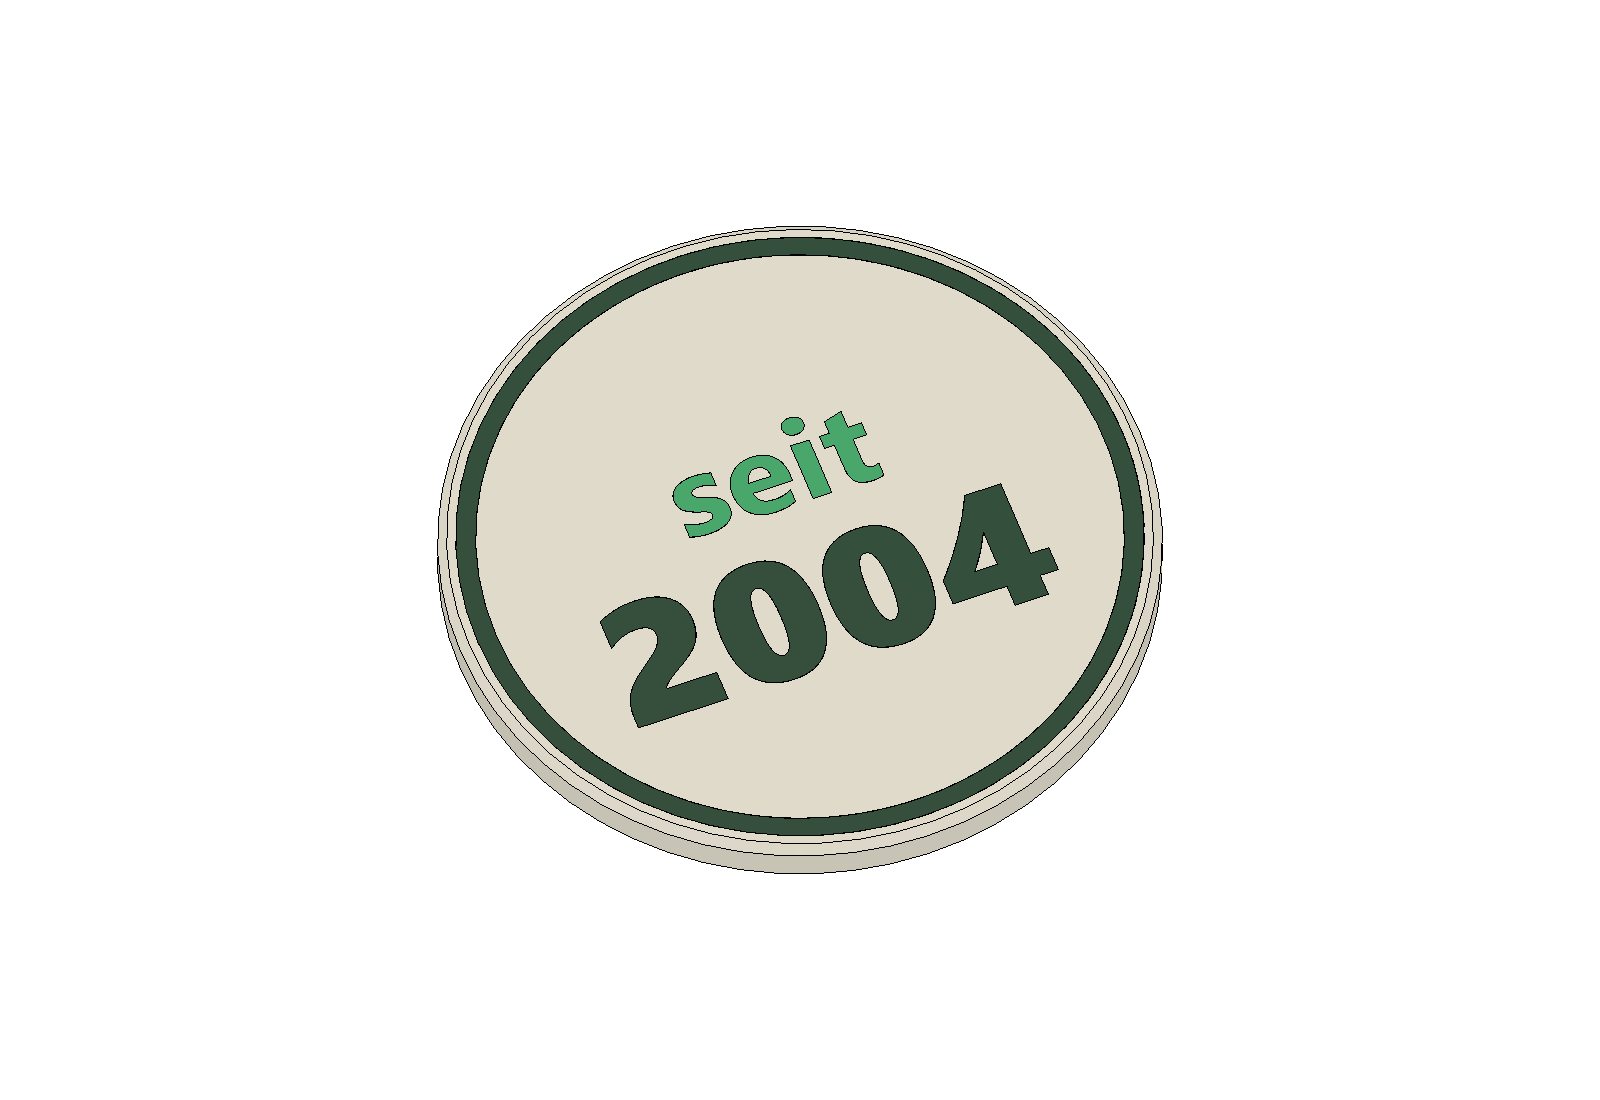
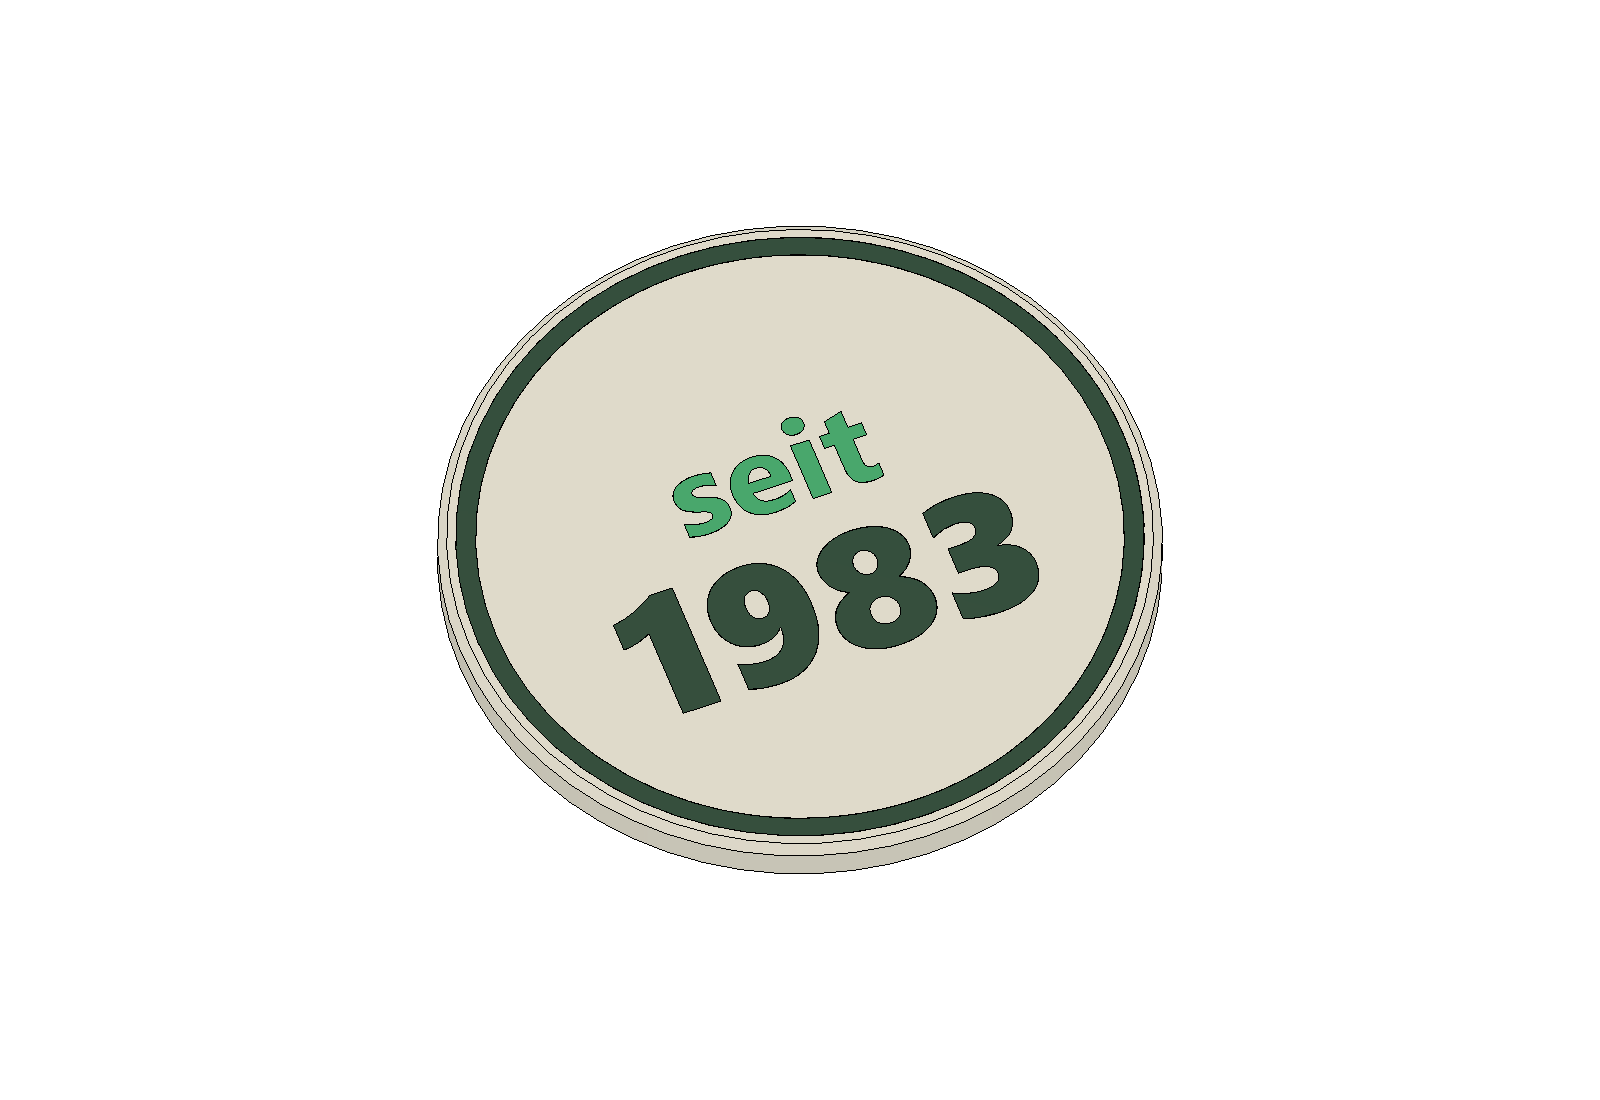
Jahreszahl auf Token und Chips: seit 1983 statt seit 2004
Motiv seit2004 heisst jetzt seit1983 (Gruendungsjahr der Bechtle AG),
Vorschaubilder, Galerie und Pages-Bilder neu erzeugt.
tools/make_3mf.py als gemeinsame 3MF-Basis wiederhergestellt.

Changed region(s): [[0.375, 0.4327, 0.6562, 0.68]]

diff --git a/galerie/merch_daten.js b/galerie/merch_daten.js
@@ -2,13 +2,13 @@
 const MERCH = [
   {
     id: 'token', kurz: 'Token', kicker: '1 · Überarbeitet', name: 'Token, wahlweise mit Schlüsselring',
-    text: 'Eine Münze für beides: Hauptversion ohne Loch, dazu jede Variante fertig mit 2-mm-Loch für den Schlüsselring, ohne Umrandung. Vorn ein 20 mm großes Emblem und der Schriftzug im dunklen Randring, hinten eines von fünf Motiven. Die neutrale Fassung trägt vorn „seit 2004“, hinten ein Motiv ohne Logo oder nur den Ring.',
+    text: 'Eine Münze für beides: Hauptversion ohne Loch, dazu jede Variante fertig mit 2-mm-Loch für den Schlüsselring, ohne Umrandung. Vorn ein 20 mm großes Emblem und der Schriftzug im dunklen Randring, hinten eines von fünf Motiven. Die neutrale Fassung trägt vorn „seit 1983“, hinten ein Motiv ohne Logo oder nur den Ring.',
     masse: 'Ø 40 × 3 mm, Loch Ø 2 mm für einen Ring mit 1 mm Draht, 2,8 mm Steg zum Rand',
     farben: ['weiss', 'dunkel', 'mittel'],
     druck: 'flach, ohne Stützen; Rückseite in den ersten drei Schichten, Vorderseite in den letzten drei',
     dateien: 'token_logo_<motiv>[_loch].3mf, token_neutral_<motiv>[_loch].3mf (16 Dateien)',
-    hinweis: 'Die Bogentexte der Rückseiten sind 2,7 bis 3,0 mm hoch. Mit einer 0,4-mm-Düse ist das die Grenze; „seit 2004“ und „Zusammen zukunftsstark“ sind unkritisch.',
-    bilder: [['token_logo_seit2004_loch.png', 'Vorderseite mit Loch'], ['token_logo_seit2004.png', 'Vorderseite'], ['token_logo_seit2004_rueckseite.png', 'seit 2004'],
+    hinweis: 'Die Bogentexte der Rückseiten sind 2,7 bis 3,0 mm hoch. Mit einer 0,4-mm-Düse ist das die Grenze; „seit 1983“ und „Zusammen zukunftsstark“ sind unkritisch.',
+    bilder: [['token_logo_seit1983_loch.png', 'Vorderseite mit Loch'], ['token_logo_seit1983.png', 'Vorderseite'], ['token_logo_seit1983_rueckseite.png', 'seit 1983'],
       ['token_logo_always_loch_rueckseite.png', 'Always prepared'], ['token_logo_zusammen_loch_rueckseite.png', 'Zusammen zukunftsstark'],
       ['token_logo_shape_loch_rueckseite.png', 'Shape the future'], ['token_logo_unknown_loch_rueckseite.png', 'Get to know'], ['token_neutral_zusammen.png', 'Neutral, vorn'], ['token_neutral_leer_rueckseite.png', 'Neutral, nur Ring']],
   },
@@ -18,9 +18,9 @@ const MERCH = [
     masse: 'Ø 23,25 × 2,4 mm (1-Euro-Münze: 2,33 mm)',
     farben: ['weiss', 'dunkel', 'mittel', 'neon'],
     druck: 'flach, ohne Stützen; beide Seiten je 0,6 mm tief eingelegt',
-    dateien: 'chipsatz_logo_seit2004.3mf (vier Farbwelten auf einer Platte), chip_logo_<motiv>.3mf, chip_neutral_<motiv>.3mf (8 Dateien)',
-    hinweis: 'Auf dem Chip sind die Bogentexte nur 1,7 bis 1,9 mm hoch, „Zusammen zukunftsstark“ ist ähnlich fein. Das braucht eine 0,2-mm-Düse; mit 0,4 mm sind „seit 2004“ und die Rückseite nur mit Ring sicher.',
-    bilder: [['chip_logo_seit2004.png', 'Vorderseite'], ['chip_logo_seit2004_rueckseite.png', 'seit 2004'], ['chip_logo_always_rueckseite.png', 'Always prepared'],
+    dateien: 'chipsatz_logo_seit1983.3mf (vier Farbwelten auf einer Platte), chip_logo_<motiv>.3mf, chip_neutral_<motiv>.3mf (8 Dateien)',
+    hinweis: 'Auf dem Chip sind die Bogentexte nur 1,7 bis 1,9 mm hoch, „Zusammen zukunftsstark“ ist ähnlich fein. Das braucht eine 0,2-mm-Düse; mit 0,4 mm sind „seit 1983“ und die Rückseite nur mit Ring sicher.',
+    bilder: [['chip_logo_seit1983.png', 'Vorderseite'], ['chip_logo_seit1983_rueckseite.png', 'seit 1983'], ['chip_logo_always_rueckseite.png', 'Always prepared'],
       ['chip_logo_zusammen_rueckseite.png', 'Zusammen zukunftsstark'], ['chip_logo_shape_rueckseite.png', 'Shape the future'], ['chip_logo_unknown_rueckseite.png', 'Get to know'], ['chip_neutral_zusammen.png', 'Neutral, vorn'], ['chip_neutral_leer_rueckseite.png', 'Neutral, nur Ring']],
   },
   {

diff --git a/docs/index.html b/docs/index.html
@@ -79,10 +79,10 @@ const NAME = { weiss: 'Weiß', dunkel: 'Experience Green', mittel: 'Progressive 
 const MODELLE = [
   { name: 'Token mit Schlüsselring', text: 'Münze mit Emblem vorn und einem von fünf Motiven hinten, wahlweise mit Loch für den Schlüsselring.',
     mass: 'Ø 40 × 3 mm', farben: ['weiss', 'dunkel', 'mittel'],
-    bilder: [['token_logo_seit2004_loch', 'Vorn'], ['token_logo_always_loch_rueckseite', 'Rückseite'], ['token_neutral_zusammen', 'Neutral']] },
+    bilder: [['token_logo_seit1983_loch', 'Vorn'], ['token_logo_always_loch_rueckseite', 'Rückseite'], ['token_neutral_zusammen', 'Neutral']] },
   { name: 'Einkaufswagenchips', text: 'Im Maß der 1-Euro-Münze, beidseitig bedruckt. Vier Farbwelten aus derselben Geometrie.',
     mass: 'Ø 23,25 × 2,4 mm', farben: ['weiss', 'dunkel', 'mittel', 'neon'],
-    bilder: [['chip_logo_seit2004', 'Vorn'], ['chip_logo_zusammen_rueckseite', 'Rückseite'], ['chip_neutral_zusammen', 'Neutral']] },
+    bilder: [['chip_logo_seit1983', 'Vorn'], ['chip_logo_zusammen_rueckseite', 'Rückseite'], ['chip_neutral_zusammen', 'Neutral']] },
   { name: 'Uptime-Untersetzer', text: 'Prompt, große Uptime-Zahl und Pulslinie, alles bündig, damit das Glas plan steht.',
     mass: 'Ø 95 × 4 mm', farben: ['dunkel', 'weiss', 'neon', 'mittel'],
     bilder: [['untersetzer_logo_oben', 'Oben'], ['untersetzer_logo', 'Schräg'], ['untersetzer_neutral_oben', 'Neutral']] },

diff --git a/tools/make_3mf.py b/tools/make_3mf.py
@@ -1,0 +1,139 @@
+"""Gemeinsame 3MF-Bausteine (Bambu Studio): STL lesen, Objekte mit einem Teil je Farbe schreiben.
+Genutzt von make_3mf_merch.py und make_3mf_platten.py.
+"""
+import os
+import uuid
+import zipfile
+from xml.sax.saxutils import escape
+
+from stl_info import read_stl
+
+ROOT = os.path.abspath(os.path.join(os.path.dirname(__file__), '..'))
+EXPORT = os.path.join(ROOT, 'export')
+BED_CENTER = (128.0, 128.0)   # X1C: 256 x 256 mm
+
+
+NS = ('xmlns="http://schemas.microsoft.com/3dmanufacturing/core/2015/02" '
+      'xmlns:BambuStudio="http://schemas.bambulab.com/package/2021" '
+      'xmlns:p="http://schemas.microsoft.com/3dmanufacturing/production/2015/06" '
+      'requiredextensions="p"')
+
+
+def mesh_xml(tris, offset):
+    idx = {}
+    verts = []
+    faces = []
+    for t in tris:
+        f = []
+        for p in t:
+            key = (round(p[0] + offset[0], 5), round(p[1] + offset[1], 5), round(p[2] + offset[2], 5))
+            i = idx.get(key)
+            if i is None:
+                i = len(verts)
+                idx[key] = i
+                verts.append(key)
+            f.append(i)
+        if len(set(f)) == 3:
+            faces.append(f)
+    out = ['<mesh><vertices>']
+    out += ['<vertex x="%g" y="%g" z="%g"/>' % v for v in verts]
+    out.append('</vertices><triangles>')
+    out += ['<triangle v1="%d" v2="%d" v3="%d"/>' % tuple(f) for f in faces]
+    out.append('</triangles></mesh>')
+    return ''.join(out), len(verts), len(faces)
+
+
+def build(name, objects):
+    loaded = []
+    for obj_name, parts in objects:
+        loaded.append((obj_name, [(read_stl(os.path.join(EXPORT, f)), f, pn, ex) for f, pn, ex in parts]))
+    # alles gemeinsam auf die Bettmitte schieben, Unterkante auf z = 0
+    allp = [p for _, parts in loaded for tris, *_ in parts for t in tris for p in t]
+    mnx, mxx = min(p[0] for p in allp), max(p[0] for p in allp)
+    mny, mxy = min(p[1] for p in allp), max(p[1] for p in allp)
+    mnz = min(p[2] for p in allp)
+    off = (BED_CENTER[0] - (mnx + mxx) / 2.0, BED_CENTER[1] - (mny + mxy) / 2.0, -mnz)
+
+    next_id = 1
+    part_objs = []      # (id, xml)
+    assemblies = []     # (id, obj_name, [(part_id, part_name, extruder, file)])
+    for obj_name, parts in loaded:
+        plist = []
+        for tris, f, pn, ex in parts:
+            m, nv, nf = mesh_xml(tris, off)
+            pid = next_id
+            next_id += 1
+            part_objs.append((pid, '<object id="%d" p:UUID="%s" type="model">%s</object>' % (pid, uuid.uuid4(), m)))
+            plist.append((pid, pn, ex, f))
+            print('  %-42s %6d Ecken %6d Dreiecke  Filament %d' % (f, nv, nf, ex))
+        assemblies.append((next_id, obj_name, plist))
+        next_id += 1
+
+    obj_path = '/3D/Objects/object_1.model'
+    objects_model = ('<?xml version="1.0" encoding="UTF-8"?>\n<model unit="millimeter" xml:lang="en-US" %s>'
+                     '<metadata name="BambuStudio:3mfVersion">1</metadata><resources>%s</resources><build/></model>'
+                     % (NS, ''.join(x for _, x in part_objs)))
+    res, items = [], []
+    for aid, obj_name, plist in assemblies:
+        comps = ''.join('<component p:path="%s" objectid="%d" p:UUID="%s" transform="1 0 0 0 1 0 0 0 1 0 0 0"/>'
+                        % (obj_path, pid, uuid.uuid4()) for pid, *_ in plist)
+        res.append('<object id="%d" p:UUID="%s" type="model"><components>%s</components></object>'
+                   % (aid, uuid.uuid4(), comps))
+        items.append('<item objectid="%d" p:UUID="%s" transform="1 0 0 0 1 0 0 0 1 0 0 0" printable="1"/>'
+                     % (aid, uuid.uuid4()))
+    main_model = ('<?xml version="1.0" encoding="UTF-8"?>\n<model unit="millimeter" xml:lang="en-US" %s>'
+                  '<metadata name="Application">BambuStudio-02.00.00.00</metadata>'
+                  '<metadata name="BambuStudio:3mfVersion">1</metadata>'
+                  '<metadata name="Title">%s</metadata>'
+                  '<resources>%s</resources><build p:UUID="%s">%s</build></model>'
+                  % (NS, escape(name), ''.join(res), uuid.uuid4(), ''.join(items)))
+
+    cfg = ['<?xml version="1.0" encoding="UTF-8"?>', '<config>']
+    for aid, obj_name, plist in assemblies:
+        cfg.append('  <object id="%d">' % aid)
+        cfg.append('    <metadata key="name" value="%s"/>' % escape(obj_name))
+        cfg.append('    <metadata key="extruder" value="%d"/>' % plist[0][2])
+        for pid, pn, ex, f in plist:
+            cfg.append('    <part id="%d" subtype="normal_part">' % pid)
+            cfg.append('      <metadata key="name" value="%s"/>' % escape(pn))
+            cfg.append('      <metadata key="matrix" value="1 0 0 0 0 1 0 0 0 0 1 0 0 0 0 1"/>')
+            cfg.append('      <metadata key="source_file" value="%s"/>' % escape(f))
+            cfg.append('      <metadata key="extruder" value="%d"/>' % ex)
+            cfg.append('    </part>')
+        cfg.append('  </object>')
+    cfg.append('  <plate>')
+    cfg.append('    <metadata key="plater_id" value="1"/>')
+    cfg.append('    <metadata key="plater_name" value=""/>')
+    cfg.append('    <metadata key="locked" value="false"/>')
+    for n, (aid, *_r) in enumerate(assemblies):
+        cfg.append('    <model_instance>')
+        cfg.append('      <metadata key="object_id" value="%d"/>' % aid)
+        cfg.append('      <metadata key="instance_id" value="0"/>')
+        cfg.append('      <metadata key="identify_id" value="%d"/>' % (100 + n))
+        cfg.append('    </model_instance>')
+    cfg.append('  </plate>')
+    cfg.append('</config>')
+
+    content_types = ('<?xml version="1.0" encoding="UTF-8"?>\n<Types xmlns="http://schemas.openxmlformats.org/package/2006/content-types">'
+                     '<Default Extension="rels" ContentType="application/vnd.openxmlformats-package.relationships+xml"/>'
+                     '<Default Extension="model" ContentType="application/vnd.ms-package.3dmanufacturing-3dmodel+xml"/>'
+                     '<Default Extension="png" ContentType="image/png"/>'
+                     '<Default Extension="config" ContentType="text/xml"/></Types>')
+    rels = ('<?xml version="1.0" encoding="UTF-8"?>\n<Relationships xmlns="http://schemas.openxmlformats.org/package/2006/relationships">'
+            '<Relationship Target="/3D/3dmodel.model" Id="rel-1" Type="http://schemas.microsoft.com/3dmanufacturing/2013/01/3dmodel"/>'
+            '</Relationships>')
+    model_rels = ('<?xml version="1.0" encoding="UTF-8"?>\n<Relationships xmlns="http://schemas.openxmlformats.org/package/2006/relationships">'
+                  '<Relationship Target="%s" Id="rel-1" Type="http://schemas.microsoft.com/3dmanufacturing/2013/01/3dmodel"/>'
+                  '</Relationships>' % obj_path)
+
+    out = os.path.join(EXPORT, name + '.3mf')
+    with zipfile.ZipFile(out, 'w', zipfile.ZIP_DEFLATED) as z:
+        z.writestr('[Content_Types].xml', content_types)
+        z.writestr('_rels/.rels', rels)
+        z.writestr('3D/3dmodel.model', main_model)
+        z.writestr('3D/_rels/3dmodel.model.rels', model_rels)
+        z.writestr('3D/Objects/object_1.model', objects_model)
+        z.writestr('Metadata/model_settings.config', '\n'.join(cfg) + '\n')
+    print('->', os.path.relpath(out, ROOT))
+    return out
+

diff --git a/models/Merch/me_muenze.py b/models/Merch/me_muenze.py
@@ -30,10 +30,10 @@ CHIP = dict(
     frage=7.4,
 )
 
-# (Vorderseite, Rueckseite). Motive mit Emblem: logo, always, shape. Ohne Logo: seit2004, zusammen, unknown, leer.
+# (Vorderseite, Rueckseite). Motive mit Emblem: logo, always, shape. Ohne Logo: seit1983, zusammen, unknown, leer.
 # 'leer' = nur der Randring (fuer die 0,4-mm-Duese die sichere Rueckseite des neutralen Chips).
-PAARE_LOGO = [('logo', 'seit2004'), ('logo', 'always'), ('logo', 'zusammen'), ('logo', 'shape'), ('logo', 'unknown')]
-PAARE_NEUTRAL = [('seit2004', 'zusammen'), ('seit2004', 'unknown'), ('seit2004', 'leer')]
+PAARE_LOGO = [('logo', 'seit1983'), ('logo', 'always'), ('logo', 'zusammen'), ('logo', 'shape'), ('logo', 'unknown')]
+PAARE_NEUTRAL = [('seit1983', 'zusammen'), ('seit1983', 'unknown'), ('seit1983', 'leer')]
 
 
 def _bogenpaar(t, p, oben, unten, farbe):
@@ -62,11 +62,11 @@ def motiv(t, p, key, ring_farbe):
     if key == 'logo':
         k += t.logo('emblem', p['emblem'][0], 0, p['emblem'][1], d)
         k += t.logo('wort', p['wort'][0], 0, p['wort'][1], d)
-    elif key == 'seit2004':
+    elif key == 'seit1983':
         cap, y, mb = p['seit']
         k += t.text('seit', cap, 0, y, d, 'mittel', max_breite=mb)
         cap, y, mb = p['jahr']
-        k += t.text('2004', cap, 0, y, d, 'dunkel', font=M.FONT_BLACK, bold=False, max_breite=mb)
+        k += t.text('1983', cap, 0, y, d, 'dunkel', font=M.FONT_BLACK, bold=False, max_breite=mb)
     elif key == 'zusammen':
         cap, y, mb = p['zus']
         k += t.text('Zusammen', cap, 0, y, d, 'mittel', max_breite=mb)

diff --git a/tools/make_3mf_merch.py b/tools/make_3mf_merch.py
@@ -23,7 +23,7 @@ KLARNAME = {'weiss': 'Weiss', 'dunkel': 'Experience Green #075033', 'mittel': 'P
 
 # Chip-Satz: derselbe Chip viermal auf einer Platte, je Grundfarbe sind die Farben der Einlagen umgehaengt.
 # Grundfarbe -> {Farbe im Ausgangsmodell (weisser Chip): Farbe im Satz}
-CHIPSATZ_BASIS = 'chip_logo_seit2004'
+CHIPSATZ_BASIS = 'chip_logo_seit1983'
 CHIPSATZ = [
     ('weiss', {'weiss': 'weiss', 'dunkel': 'dunkel', 'mittel': 'mittel'}, (-15.0, 15.0)),
     ('dunkel', {'weiss': 'dunkel', 'dunkel': 'weiss', 'mittel': 'neon'}, (15.0, 15.0)),
@@ -41,7 +41,7 @@ def stl_schreiben(path, tris):
 
 
 def chipsatz():
-    """Schreibt die STLs fuer chipsatz_logo_seit2004 (vier Chips in vier Farbwelten) aus dem weissen Chip."""
+    """Schreibt die STLs fuer chipsatz_logo_seit1983 (vier Chips in vier Farbwelten) aus dem weissen Chip."""
     name = CHIPSATZ_BASIS.replace('chip_', 'chipsatz_')
     for old in glob.glob(os.path.join(MERCH, name + '__*.stl')):
         os.remove(old)
